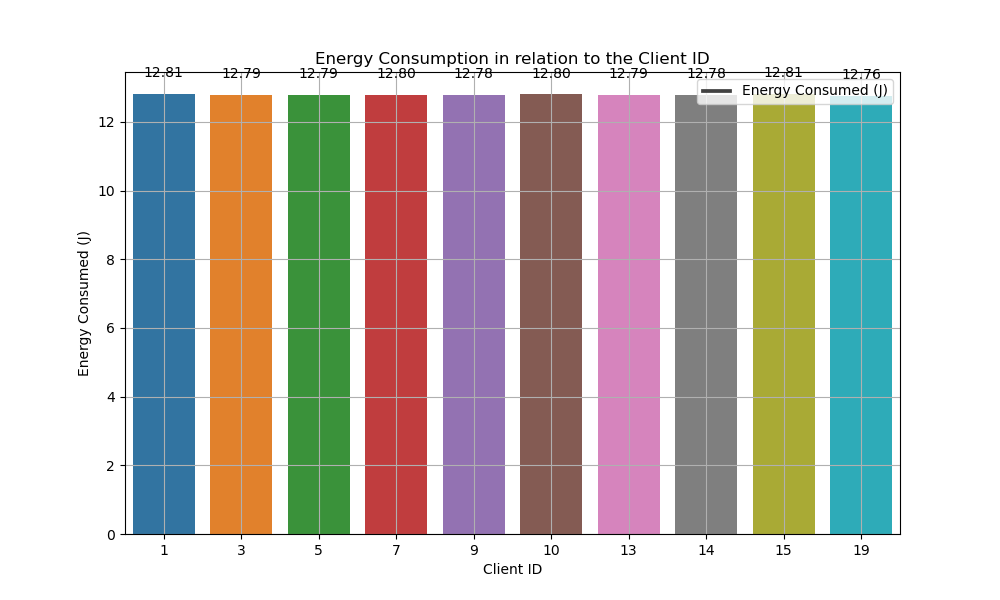
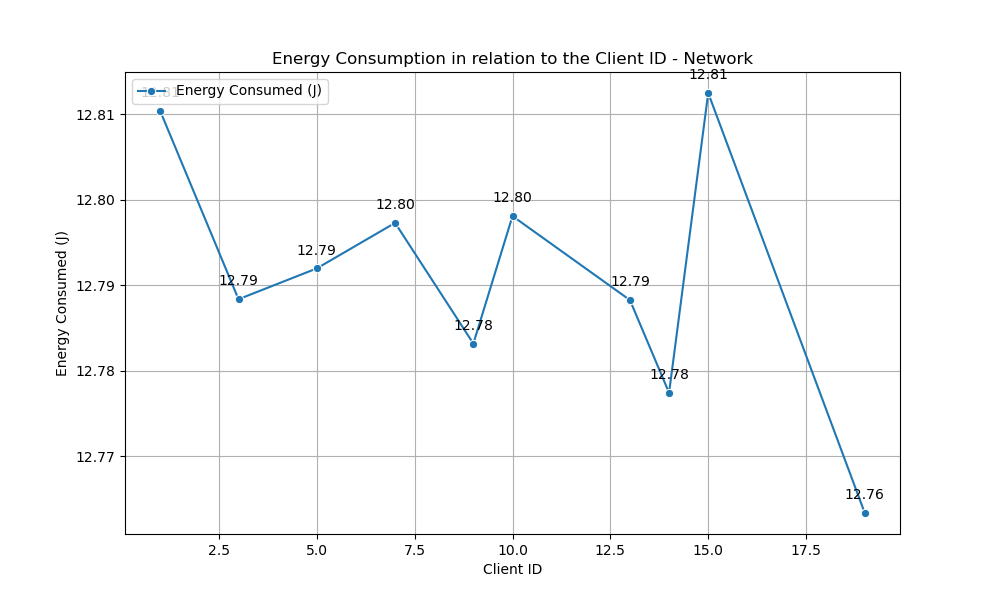
ajustente .cc

diff --git a/my_wifi_ap_net_rand.cc b/my_wifi_ap_net_rand.cc
@@ -26,15 +26,15 @@ int main(int argc, char *argv[])
     std::setlocale(LC_ALL, "");
 
     // Set a random seed
-    //RngSeedManager::SetSeed(1); // fetch current time: time(0) for Change the seed based on current time
-    //RngSeedManager::SetRun(1);  // Ensure same seed to guarantee same results each execution
+    RngSeedManager::SetSeed(1); // fetch current time: time(0) for Change the seed based on current time
+    RngSeedManager::SetRun(1);  // Ensure same seed to guarantee same results each execution
 
     // Simulation parameters
     uint32_t nWifi = 10;
     double simulationTime = 10.0; // seconds
-    double txPower = 30.0;         // dBm     (10, 30, 50)
-    double stApDistance = 10.0;    // meters  (10, 50, 100)
-    double lossExponent = 3.0; 	   // dB 2, 3, 4 for Low, moderate $ high exponents for low loss, moderate loss $ high losses
+    double txPower = 50.0;         // dBm     (10, 30, 50)
+    double stApDistance = 50.0;    // meters  (10, 50, 100)
+    double lossExponent = 4.0; 	   // dB 2, 3, 4 for Low, moderate $ high exponents for low loss, moderate loss $ high losses
     double referenceLoss = 40.0;   // dB Varies between 40 and 100 or higher, 40dB for Wifi environment with minimal obstacles and low interference
     
     // Command line arguments
@@ -92,8 +92,7 @@ int main(int argc, char *argv[])
                                   "GridWidth", UintegerValue(nWifi),
                                   "LayoutType", StringValue("RowFirst"));
 
-    //distancias variaveis
-    mobility.SetMobilityModel("ns3::RandomWalk2dMobilityModel", "Bounds", RectangleValue(Rectangle(-25, 25, -25, 25)));
+    //mobility.SetMobilityModel("ns3::RandomWalk2dMobilityModel", "Bounds", RectangleValue(Rectangle(-25, 25, -25, 25)));
     mobility.Install(wifiStaNodes);
 
     mobility.SetMobilityModel("ns3::ConstantPositionMobilityModel");
@@ -202,15 +201,12 @@ int main(int argc, char *argv[])
                 }
             }
 
-            // Calculate latency
-            double latency = (i->second.rxPackets > 0) ? i->second.delaySum.GetSeconds() / i->second.rxPackets : INFINITY;
-
             std::cout << "\nClient: " << clientId << " (Flow ID " << i->first << ")"
                       << " (" << t.sourceAddress << " -> " << t.destinationAddress << ")" << std::endl;
             std::cout << "Tx Packets = " << i->second.txPackets << std::endl;
             std::cout << "Rx Packets = " << i->second.rxPackets << std::endl;
             std::cout << "Throughput = " << std::fixed << std::setprecision(6) << i->second.rxBytes * 8.0 / (simulationTime - 1) / 1024 / 1024 << " Mbps" << std::endl;
-            std::cout << "Latency = " << std::fixed << std::setprecision(6) << latency << " s" << std::endl;
+            std::cout << "Latency = " << std::fixed << std::setprecision(6) << (i->second.rxPackets > 0 ? i->second.delaySum.GetSeconds() / i->second.rxPackets : INFINITY) << " s" << std::endl;
             std::cout << "Packet Loss Ratio = " << std::fixed << std::setprecision(6) << (i->second.txPackets > 0 ? (i->second.txPackets - i->second.rxPackets) * 100.0 / i->second.txPackets : INFINITY) << " %" << std::endl;
             std::cout << "Transmission Time = " << std::fixed << std::setprecision(6) << (i->second.txPackets > 0 ? (i->second.timeLastRxPacket - i->second.timeFirstTxPacket).GetSeconds() : INFINITY) << " s" << std::endl;
             std::cout << "Energy Consumed = " << std::fixed << std::setprecision(6) << energyConsumed << " J" << std::endl;
@@ -218,7 +214,8 @@ int main(int argc, char *argv[])
     }
 
     // Output statistics to CSV file
-    std::ofstream outputFile("./scratch/SL/results/csv/ns3/simulator_ns3.csv");
+    // std::cout << "\nWriting statistics to CSV file..." << std::endl;
+    std::ofstream outputFile("./scratch/SplitLearning-NS3/csv/ns3/simulator_ns3.csv");
     outputFile << "Client,Flow ID,Source Address,Destination Address,Tx Packets,Rx Packets,Throughput (Mbps),Latency (s),Packet Loss Ratio (%),Transmission Time (s),Energy Consumed (J)\n";
 
     for (std::map<FlowId, FlowMonitor::FlowStats>::const_iterator i = stats.begin(); i != stats.end(); ++i)
@@ -248,18 +245,16 @@ int main(int argc, char *argv[])
                 }
             }
 
-            // Calculate latency
-            double latency = (i->second.rxPackets > 0) ? i->second.delaySum.GetSeconds() / i->second.rxPackets : INFINITY;
-
             outputFile << clientId << "," << i->first << "," << t.sourceAddress << "," << t.destinationAddress << ","
                        << i->second.txPackets << "," << i->second.rxPackets << ","
                        << std::fixed << std::setprecision(6) << i->second.rxBytes * 8.0 / (simulationTime - 1) / 1024 / 1024 << ","
-                       << std::fixed << std::setprecision(6) << latency << ","
+                       << std::fixed << std::setprecision(6) << (i->second.rxPackets > 0 ? i->second.delaySum.GetSeconds() / i->second.rxPackets : INFINITY) << ","
                        << std::fixed << std::setprecision(6) << (i->second.txPackets > 0 ? (i->second.txPackets - i->second.rxPackets) * 100.0 / i->second.txPackets : INFINITY) << ","
                        << std::fixed << std::setprecision(6) << (i->second.txPackets > 0 ? (i->second.timeLastRxPacket - i->second.timeFirstTxPacket).GetSeconds() : INFINITY) << ","
                        << std::fixed << std::setprecision(6) << energyConsumed << "\n";
         }
     }
+
     outputFile.close();
     std::cout << "\nStatistics written to CSV file.\n" << std::endl;
 

diff --git a/plots/plot_net_result.py b/plots/plot_net_result.py
@@ -3,7 +3,7 @@ import matplotlib.pyplot as plt
 import seaborn as sns
 
 # Ler o arquivo CSV
-df = pd.read_csv('./results/csv/ns3/simulator_ns3.csv')
+df = pd.read_csv('./csv/ns3/simulator_ns3.csv')
 
 # Filtrar as linhas onde "Latency (s)" não é "inf"
 df = df[df['Latency (s)'] != 'inf']
@@ -13,19 +13,15 @@ df['Latency (s)'] = pd.to_numeric(df['Latency (s)'])
 df['Packet Loss Ratio (%)'] = pd.to_numeric(df['Packet Loss Ratio (%)'])
 df['Throughput (Mbps)'] = pd.to_numeric(df['Throughput (Mbps)'])
 df['Energy Consumed (J)'] = pd.to_numeric(df['Energy Consumed (J)'])
-df['Flow ID'] = pd.to_numeric(df['Flow ID'], downcast='integer') # linha inclusa 04/07/24 16h10 - inteiro nos clientes
 
 # Gráfico 1: Latência em relação ao Flow ID
 plt.figure(figsize=(10, 6))
 ax1 = sns.lineplot(data=df, x='Flow ID', y='Latency (s)', marker='o')
-plt.title('Latency in relation to the Client ID')
+plt.title('Latency in relation to the Client ID - Network')
 plt.xlabel('Client ID')
 plt.ylabel('Latency (s)')
 plt.legend(['Latency (s)'])
 plt.grid(True)
-
-# Definir os ticks do eixo X para serem inteiros e sequenciais
-plt.xticks(ticks=range(df['Flow ID'].min(), df['Flow ID'].max() + 1))
 
 # Adicionar anotações
 for i, row in df.iterrows():
@@ -37,7 +33,7 @@ plt.savefig('./images/figure1.png')  # Salvar o gráfico como .png
 # Gráfico 2: Taxa de perda de pacote em relação ao Flow ID
 plt.figure(figsize=(10, 6))
 ax2 = sns.barplot(data=df, x='Flow ID', y='Packet Loss Ratio (%)')
-plt.title('Packet loss rate in relation to the Client ID')
+plt.title('Packet loss rate in relation to the Client ID - Network')
 plt.xlabel('Client ID')
 plt.ylabel('Packet Loss Ratio (%)')
 plt.legend(['Packet Loss Ratio (%)'])
@@ -54,7 +50,7 @@ plt.savefig('./images/figure2.png')  # Salvar o gráfico como .png
 # Gráfico 3: Vazão em relação ao Flow ID (modificado para gráfico de barras)
 plt.figure(figsize=(10, 6))
 ax3 = sns.barplot(data=df, x='Flow ID', y='Throughput (Mbps)')
-plt.title('Throughput in relation to the Client ID')
+plt.title('Throughput in relation to the Client ID - Network')
 plt.xlabel('Client ID')
 plt.ylabel('Throughput (Mbps)')
 plt.legend(['Throughput (Mbps)'])
@@ -68,19 +64,18 @@ for p in ax3.patches:
 plt.savefig('./images/figure3.png')  # Salvar o gráfico como .png
 #plt.show()
 
-# Gráfico 4: Consumo de energia em relação ao Flow ID
+# Gráfico 4: Consumo de energia em relação ao Flow ID (modificado para gráfico de linha)
 plt.figure(figsize=(10, 6))
-ax4 = sns.barplot(data=df, x='Flow ID', y='Energy Consumed (J)')
-plt.title('Energy Consumption in relation to the Client ID')
+ax4 = sns.lineplot(data=df, x='Flow ID', y='Energy Consumed (J)', marker='o')
+plt.title('Energy Consumption in relation to the Client ID - Network')
 plt.xlabel('Client ID')
 plt.ylabel('Energy Consumed (J)')
 plt.legend(['Energy Consumed (J)'])
 plt.grid(True)
 
 # Adicionar anotações
-for p in ax4.patches:
-    height = p.get_height()
-    ax4.annotate(f'{height:.2f}', (p.get_x() + p.get_width() / 2., height), ha='center', va='bottom', xytext=(0, 10), textcoords='offset points')
+for i, row in df.iterrows():
+    ax4.annotate(f"{row['Energy Consumed (J)']:.2f}", (row['Flow ID'], row['Energy Consumed (J)']), textcoords="offset points", xytext=(0,10), ha='center')
 
 plt.savefig('./images/figure4.png')  # Salvar o gráfico como .png
 #plt.show()

diff --git a/plots/_plot_ai_result_sync.py b/plots/_plot_ai_result_sync.py
@@ -63,7 +63,7 @@ for i in range(USER):
         print(f"Erro: client {i+1} não tem elementos em val_acc")
 
 # Gráfico de barras para Epoch vs Accuracy
-plt.figure()
+plt.figure(figsize=(10, 6))
 for i in range(USER):
     if len(val_acc[i]) > 0:
         plt.bar(range(len(val_acc[i])), val_acc[i], label=f'Client {i+1}')
@@ -75,12 +75,12 @@ plt.title('Epoch vs Accuracy - Train', fontsize=14)
 plt.xlabel('Epoch', fontsize=14)
 plt.ylabel('Accuracy', fontsize=14)
 plt.tick_params(labelsize=14)
-plt.grid()
+plt.grid(True)
 plt.subplots_adjust(left=0.140, right=0.980, bottom=0.130, top=0.870)
 plt.savefig('./images/figure5.png')
 
 # Gráfico de barras horizontais para Processing time [s] vs Accuracy
-plt.figure()
+plt.figure(figsize=(10, 6))
 for i in range(USER):
     if len(cal_times[i]) > 0 and len(val_acc[i]) > 0:
         plt.barh(cal_times[i], val_acc[i], label=f'Client {i+1}')
@@ -92,15 +92,15 @@ plt.title('Processing time [s] vs Accuracy - Train', fontsize=14)
 plt.xlabel('Accuracy', fontsize=14)
 plt.ylabel('Processing time [s]', fontsize=14)
 plt.tick_params(labelsize=14)
-plt.grid()
+plt.grid(True)
 plt.subplots_adjust(left=0.140, right=0.980, bottom=0.130, top=0.870)
 plt.savefig('./images/figure6.png')
 
 # Gráfico de linhas para Taxa de Transmissão vs Época
-plt.figure()
+plt.figure(figsize=(10, 6))
 for i in range(USER):
     throughput_data = eval(throughput[i])  # Assumindo que throughput é uma lista armazenada como string
-    plt.plot(range(len(throughput_data)), throughput_data, label=f'Client {i+1}')
+    plt.plot(range(len(throughput_data)), throughput_data, marker='o', label=f'Client {i+1}')
     for x, y in zip(range(len(throughput_data)), throughput_data):
         plt.annotate(f'{y:.2f}', (x, y), textcoords="offset points", xytext=(0,10), ha='center')
 
@@ -109,6 +109,6 @@ plt.title('Transmission Rate vs Epoch - Train', fontsize=14)
 plt.xlabel('Epoch', fontsize=14)
 plt.ylabel('Transmission Rate', fontsize=14)
 plt.tick_params(labelsize=14)
-plt.grid()
+plt.grid(True)
 plt.subplots_adjust(left=0.140, right=0.980, bottom=0.130, top=0.870)
 plt.savefig('./images/figure7.png')

diff --git a/plots/plot_net_group.py b/plots/plot_net_group.py
@@ -2,7 +2,7 @@ import pandas as pd
 import matplotlib.pyplot as plt
 
 # Ler o arquivo CSV
-df = pd.read_csv('./results/csv/ns3/simulator_ns3.csv')
+df = pd.read_csv('./csv/ns3/simulator_ns3.csv')
 
 # Filtrar os dados onde a latência é diferente de "inf"
 df_filtered = df[df['Latency (s)'] != 'inf']

diff --git a/plots/plot_ai_result_async.py b/plots/plot_ai_result_async.py
@@ -7,7 +7,7 @@ p_time = []
 cal_times = []
 
 # Caminho para o arquivo CSV
-file = './results/csv/ia/result_train_async.csv'
+file = './csv/ia/result_train_async.csv'
 
 # Abrir o arquivo e contar as linhas
 with open(file, 'r') as f:
